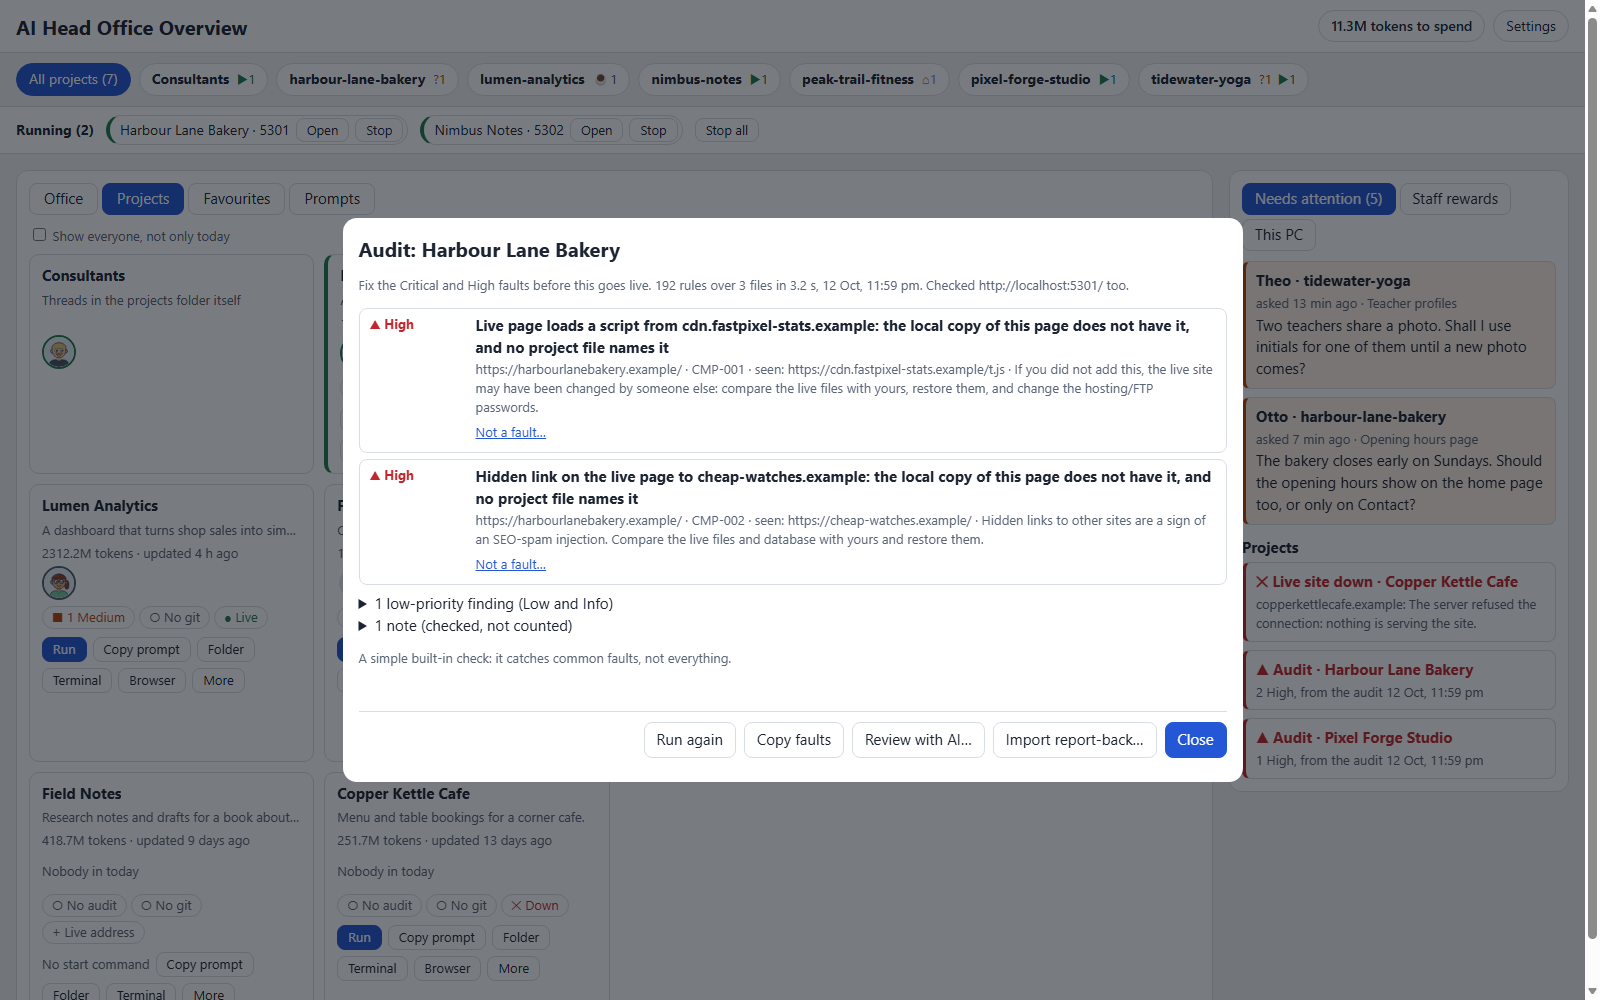
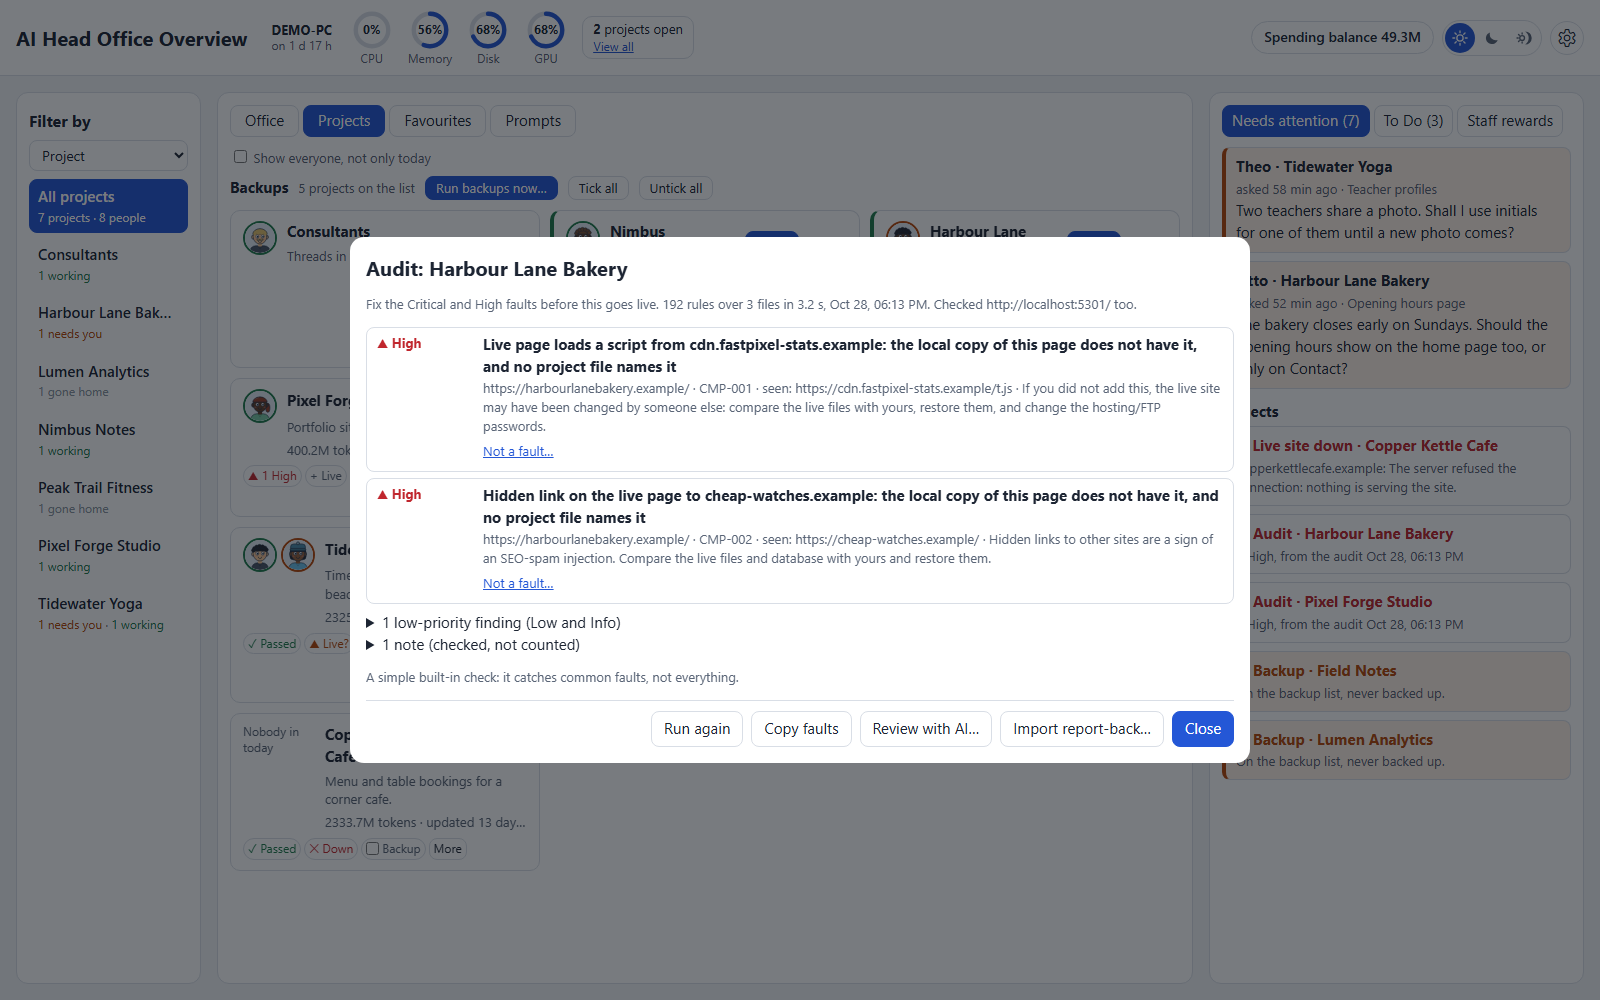
AI Head Office Overview 0.1.14: version 0.1.14; the README's screenshots show the office with every room unlocked and its staff at work, today's project tiles and the audit window

diff --git a/lib/config.js b/lib/config.js
@@ -6,7 +6,7 @@ const path = require('path');
 const crypto = require('crypto');
 
 const HERE = path.resolve(__dirname, '..'); // the office's own folder
-const VERSION = '0.1.13';
+const VERSION = '0.1.14';
 const argPort = (process.argv.find(a => /^--port=\d+$/.test(a)) || '').slice(7);
 // Demo mode (node demo/demo.js starts it): made-up projects for screenshots. Its own port and data folder, made-up
 // token numbers, "DEMO-PC", paths shown as C:\Users\demo\..., and the desktop / Start with Windows shortcuts are

diff --git a/README.md b/README.md
@@ -19,7 +19,7 @@ in a project's own project.json is only a suggestion: nothing is asked of it unt
 Free for **noncommercial** use under the PolyForm Noncommercial License 1.0.0 (see [Licence](#licence)). For any
 commercial use, ask the owner first, through this repository on GitHub.
 
-![The office with its staff and Needs attention](screenshots/office.png)
+![The office: every room unlocked and furnished, the staff at work, and Needs attention](screenshots/office.png)
 
 Using an AI helper to install, review or update it? **[AGENTS.md](AGENTS.md)** has the steps it should follow,
 including how to check an update's signature and see what it changes before taking it.
